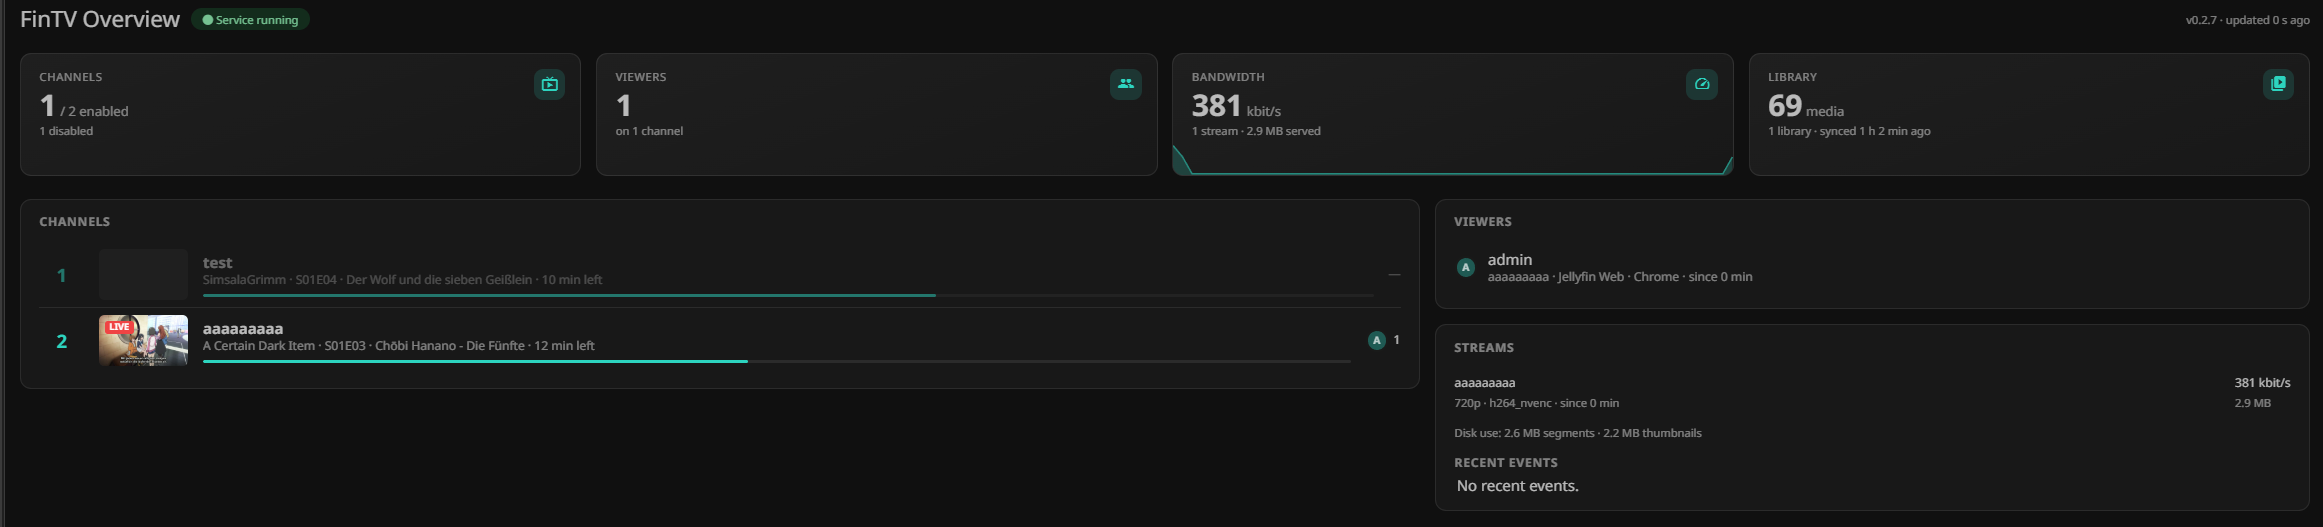
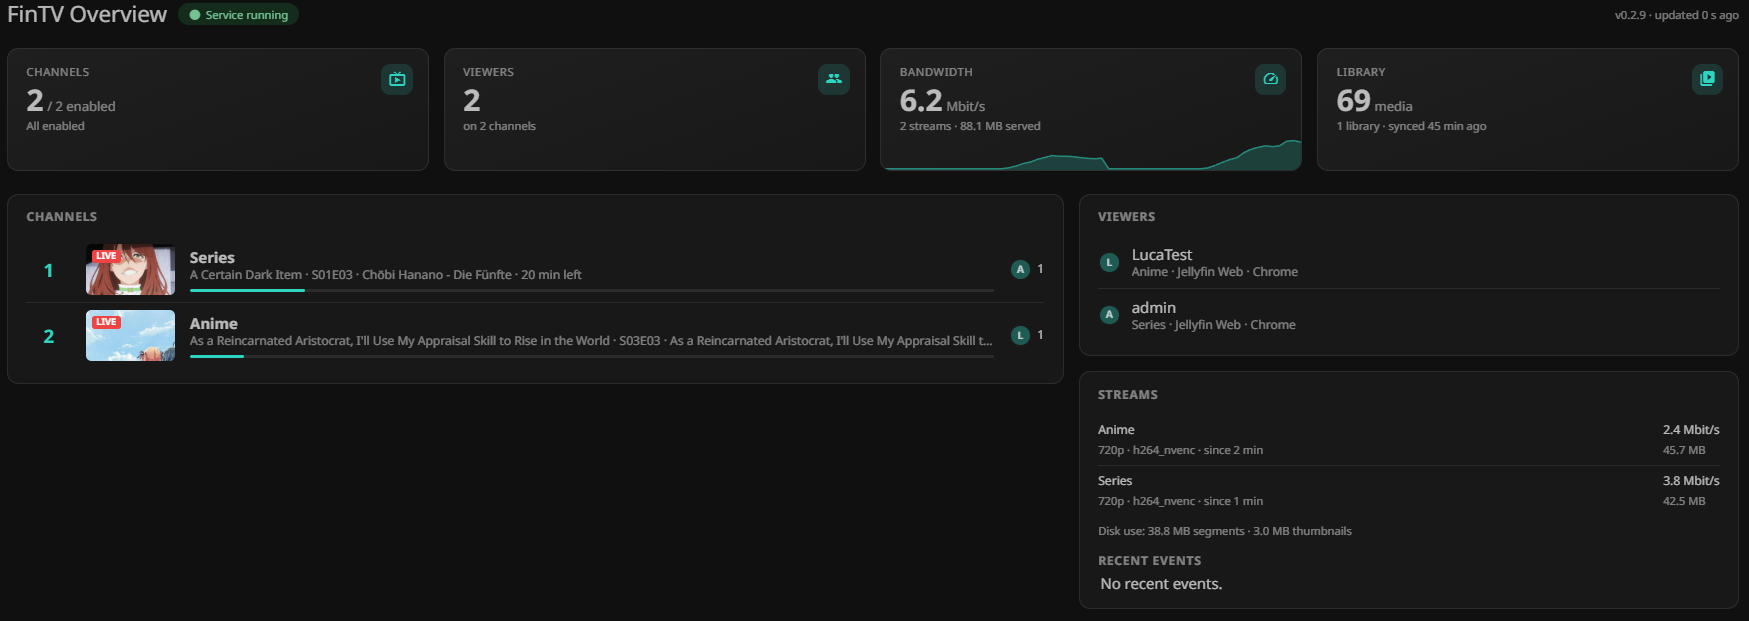
update screenshots

diff --git a/docs/screenshots/screenshots.md b/docs/screenshots/screenshots.md
@@ -1,6 +1,16 @@
-## Overview
+## Overview (Jellyfin dashboard, administrators)
 <div align="center">
   <img alt="fintv_programs.png" src="https://raw.githubusercontent.com/SolidProgramming/UnraidTemplates/main/docs/screenshots/fintv_overview.png">
+</div>
+
+## Channels
+<div align="center">
+  <img alt="fintv_programs.png" src="https://raw.githubusercontent.com/SolidProgramming/UnraidTemplates/main/docs/screenshots/fintv_channels.png" align="center">
+</div>
+
+## Settings
+<div align="center">
+  <img alt="fintv_programs.png" src="https://raw.githubusercontent.com/SolidProgramming/UnraidTemplates/main/docs/screenshots/fintv_settings.png">
 </div>
 
 ## Programs
@@ -8,7 +18,3 @@
   <img alt="fintv_programs.png" src="https://raw.githubusercontent.com/SolidProgramming/UnraidTemplates/main/docs/screenshots/fintv_programs.png">
 </div>
 
-## New/Edit Channel
-<div align="center">
-  <img alt="fintv_programs.png" src="https://raw.githubusercontent.com/SolidProgramming/UnraidTemplates/main/docs/screenshots/fintv_newchannel.png" align="center">
-</div>
